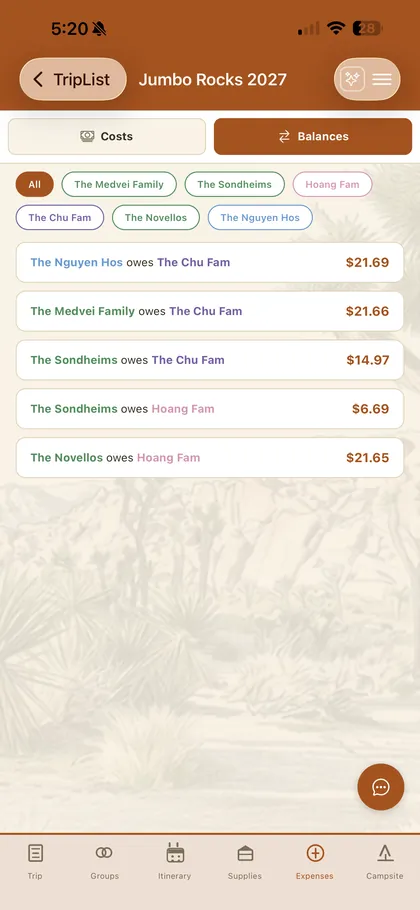
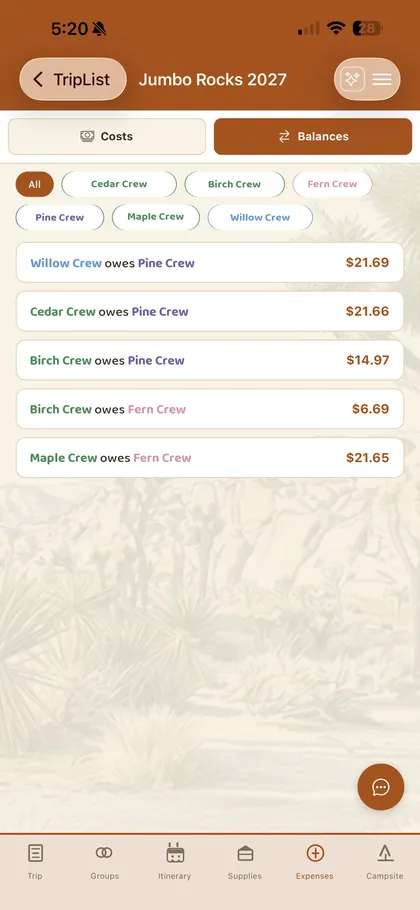
Replace real names in app screenshots with fictional crew names
The marketing screenshots are captures of a real trip, so they carried
real surnames -- including the owner's own -- on a public page and in
the JSON-LD screenshot list. Six group names appeared across the
balances filter chips and rows, the supplies group tag, and the chat
sender label.

Rather than blur them (which looks cheap on a marketing page), each
name is painted out against the card colour and redrawn in the app's
own typeface, Baloo 2, at the measured size, weight and colour:

  The Chu Fam       -> Pine Crew
  Hoang Fam         -> Fern Crew
  The Medvei Family -> Cedar Crew
  The Sondheims     -> Birch Crew
  The Novellos      -> Maple Crew
  The Nguyen Hos    -> Willow Crew
  Sid               -> Camper

Sizes were derived by matching rendered ink height and width against
the originals rather than guessed: 40px for the balance rows (measured
width 612 vs 611 actual), 33px for the filter chips (272 vs 272), 31px
for the supplies tag and chat label. Per-group text colours and the
dollar amounts are preserved, so the screens still show the real
product behaviour.

The filter pills are cleared by filling only between their left and
right border pixels on each scanline, so the rounded borders survive
intact; an earlier rectangular fill flattened them.

Three screenshots -- campsite, map-view and trip-chat -- were reachable
at public URLs but referenced nowhere, so they are deleted rather than
edited. expenses.webp carried names in wrapped split lists and was used
[…]

diff --git a/index.html b/index.html
@@ -88,7 +88,7 @@
         "https://www.flocktrot.com/img/trip-list@2x.webp",
         "https://www.flocktrot.com/img/itinerary-list@2x.webp",
         "https://www.flocktrot.com/img/supplies@2x.webp",
-        "https://www.flocktrot.com/img/expenses@2x.webp"
+        "https://www.flocktrot.com/img/calendar-view@2x.webp"
       ],
       "description": "FlockTrot brings everything a group needs for a camping trip into one shared place: a day-by-day itinerary in list, calendar or map view, a shared supplies and meals list, expense splitting, group chat, campsite details, a reusable personal gear list, and offline access at the campground.",
       "featureList": [
